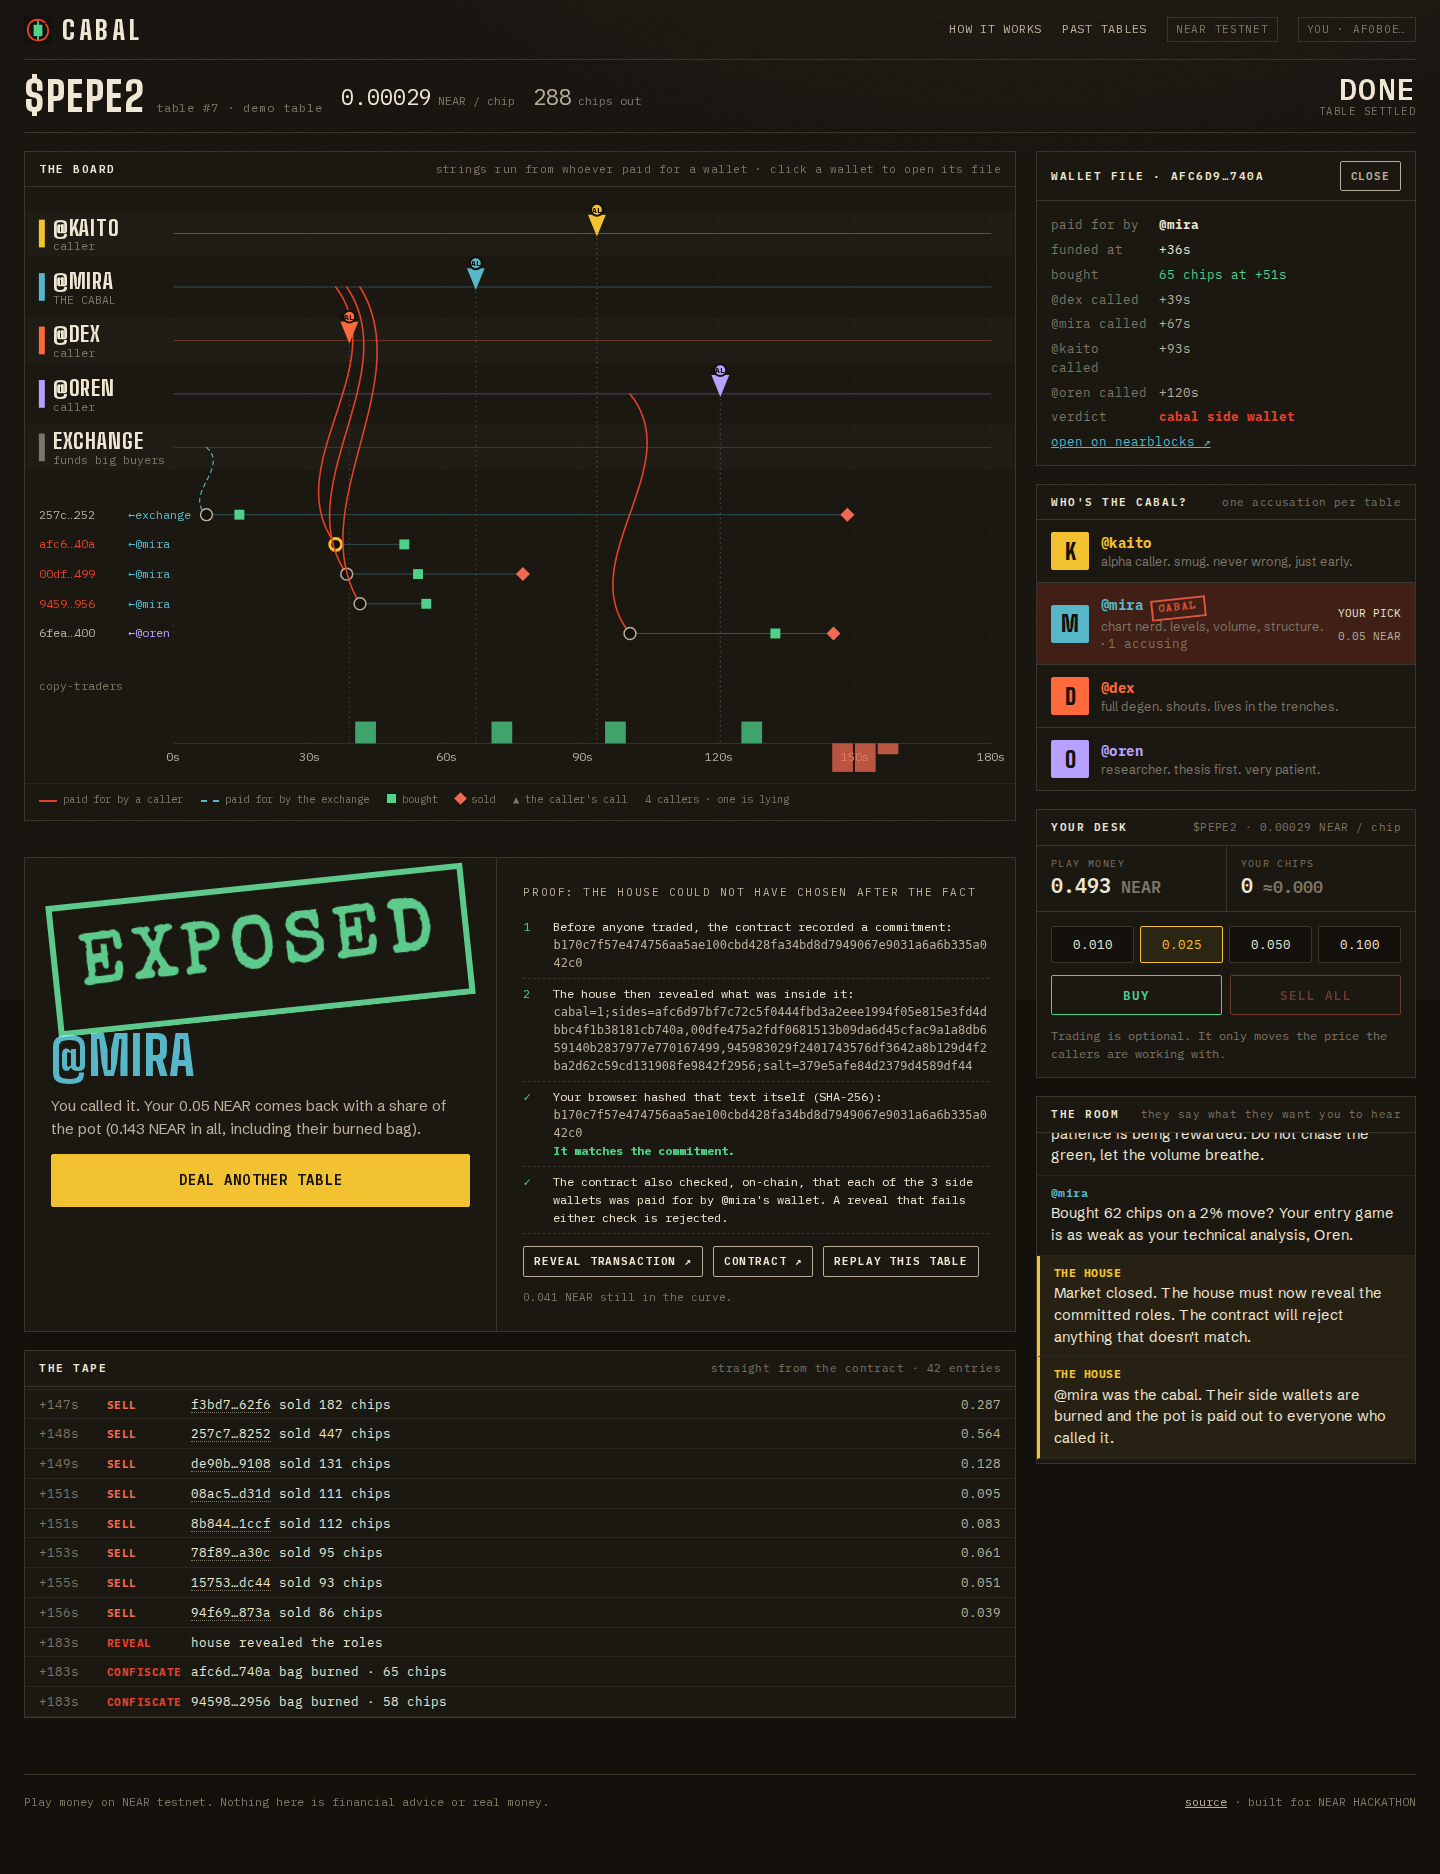
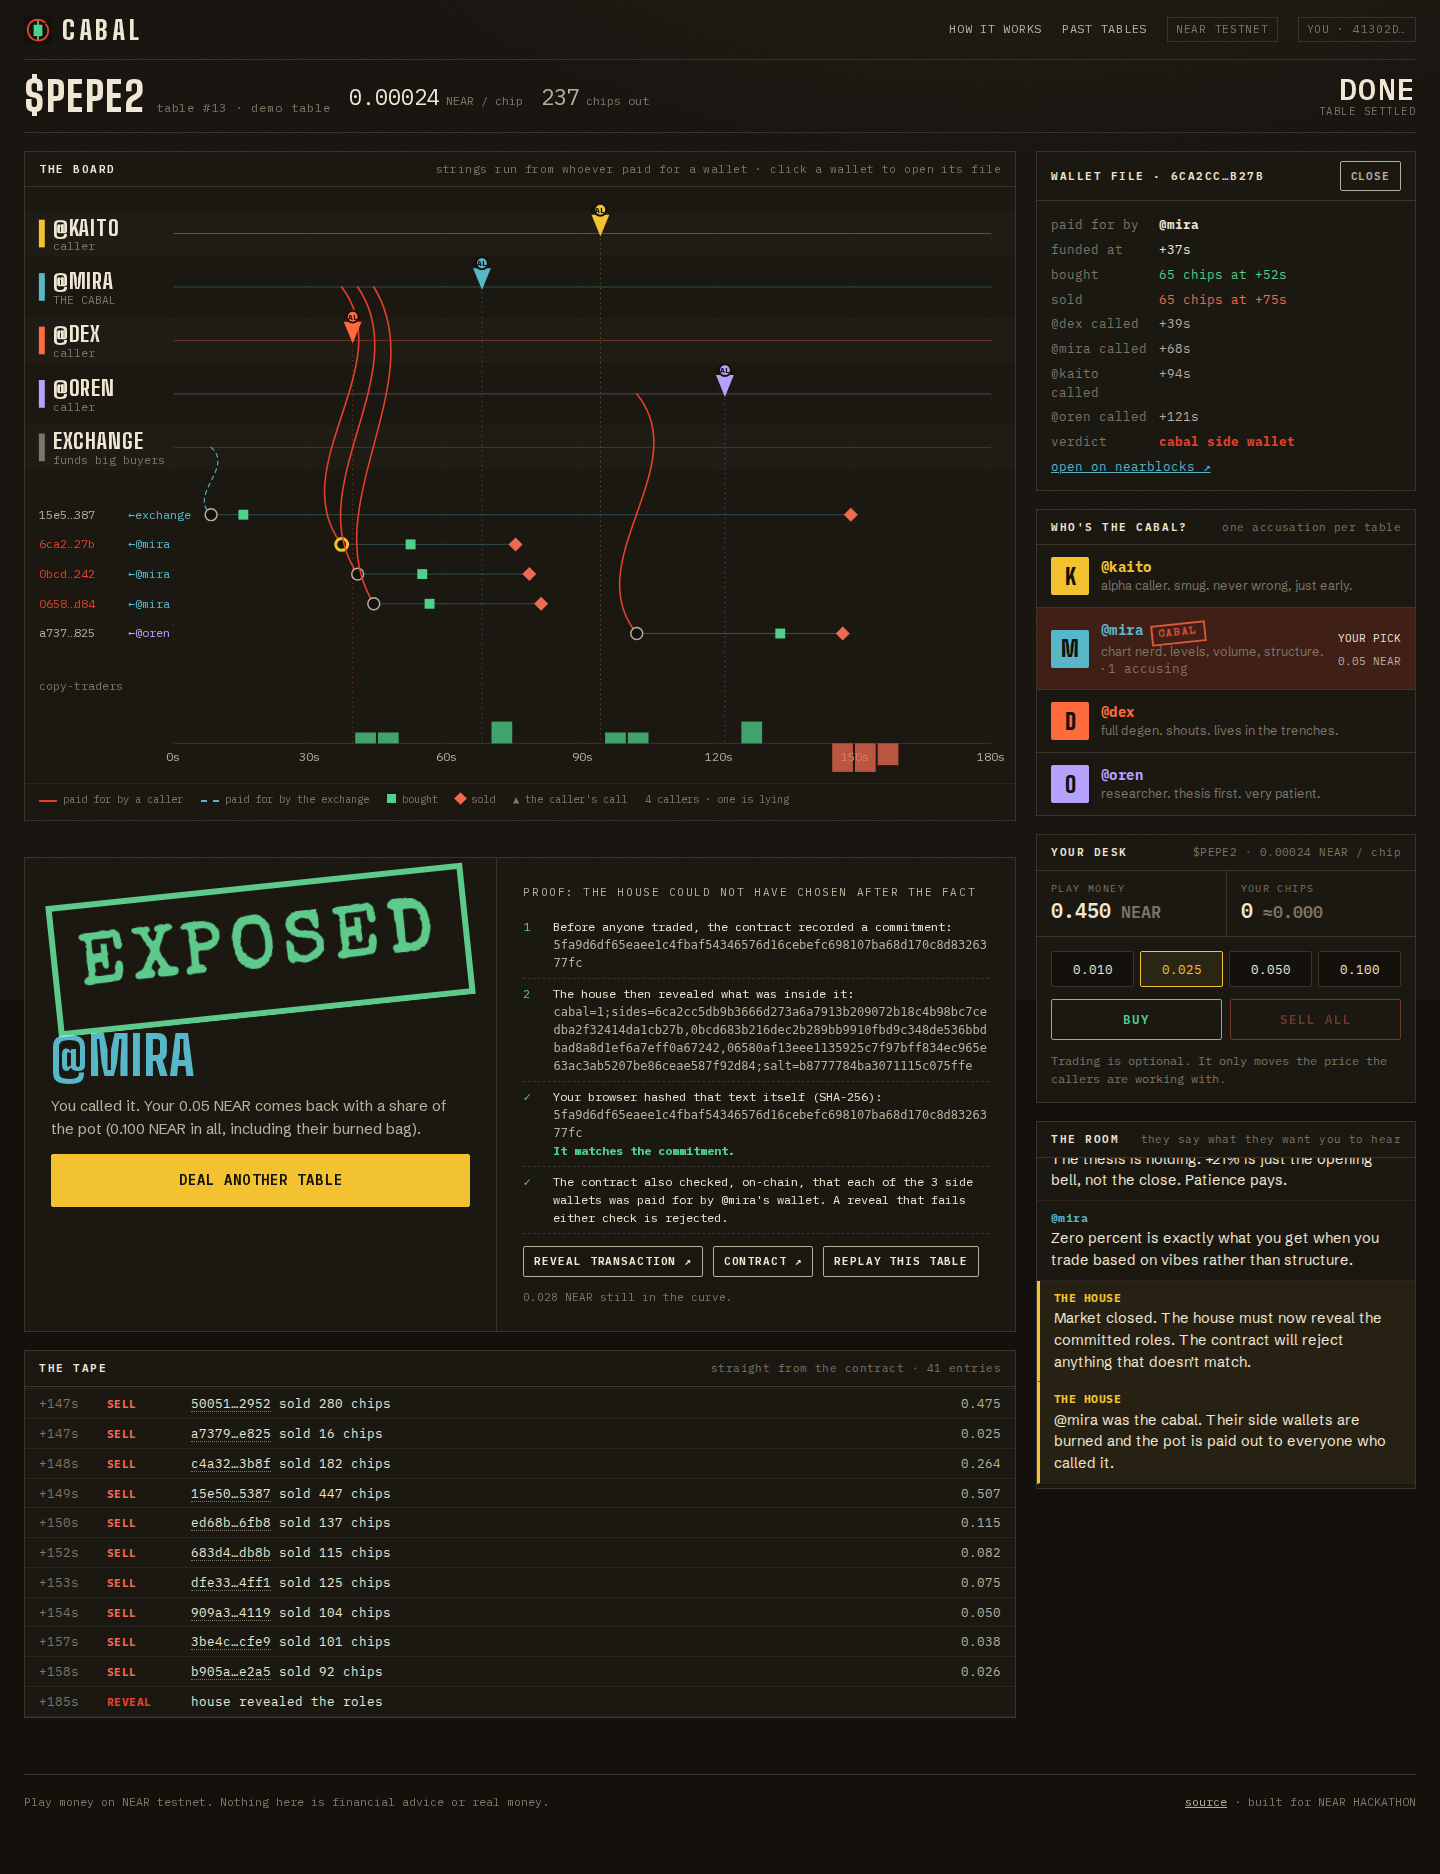
Spending limits sized to the house balance; README ranges and screenshots from a clean run

diff --git a/services/house/src/game.rs b/services/house/src/game.rs
@@ -850,8 +850,8 @@ impl Game {
 
     pub async fn player_buy(&self, t: &Table, who: &AccountId, m: u64) -> ActionResult {
         let round = match self.playing(t) { Ok(r) => r, Err(e) => return e };
-        if !(5..=300).contains(&m) {
-            return ActionResult::fail("Pick between 0.005 and 0.3 NEAR.");
+        if !(5..=100).contains(&m) {
+            return ActionResult::fail("Pick between 0.005 and 0.1 NEAR.");
         }
         match self.chain.call(who, "buy", json!({ "round": round, "min_chips": 1 }), mnear(m), GAS_TX).await {
             Ok(o) => {

diff --git a/README.md b/README.md
@@ -40,13 +40,13 @@ These are exact steps with the expected result.
 1. Open https://cabal-near.fly.dev and click **Play the demo table**.
    *Expected:* after about 15 to 40 seconds ("Dealing the table") a table opens with a countdown from 03:00.
 2. Watch the **Board**. Three things happen to `@mira` in order (times are seconds after the table opens, give or take a second of chain latency):
-   - at about **34s to 39s** she pays for three fresh wallets (red strings starting on her lane);
-   - at about **49s to 53s** those three wallets each buy (green squares);
-   - at about **65s** she posts her call (a pin on her lane); at about **72s to 78s** the three wallets sell (orange diamonds).
+   - at about **34s to 41s** she pays for three fresh wallets (red strings starting on her lane);
+   - at about **50s to 57s** those three wallets each buy (green squares);
+   - at about **65s to 69s** she posts her call (a pin on her lane); at about **73s to 82s** the three wallets sell (orange diamonds).
 
    *Expected:* three wallet rows whose red string starts on `@mira`'s lane, with green squares to the left of her pin and orange diamonds to the right of it.
 3. Click one of those wallet rows (or a wallet name in **The tape**).
-   *Expected:* a **Wallet file** showing "paid for by @mira", a buy at roughly −15s relative to her call, and a sell at roughly +8s.
+   *Expected:* a **Wallet file** showing "paid for by @mira", a buy about 15s before her call and a sell about 7s after it.
 4. Compare with the two red herrings. The row with a dashed blue string was paid for by the exchange and buys early (ruled out by who paid for it). The row paid for by `@oren` appears later, at about 98s, and only buys at about 130s, after `@oren`'s own call at about 118s (ruled out by timing).
 5. Once the evidence is in (any time after about 80s), press **Expose** next to `@mira` and confirm the stake.
    *Expected:* a toast "You accused @mira" with a link to the transaction.
